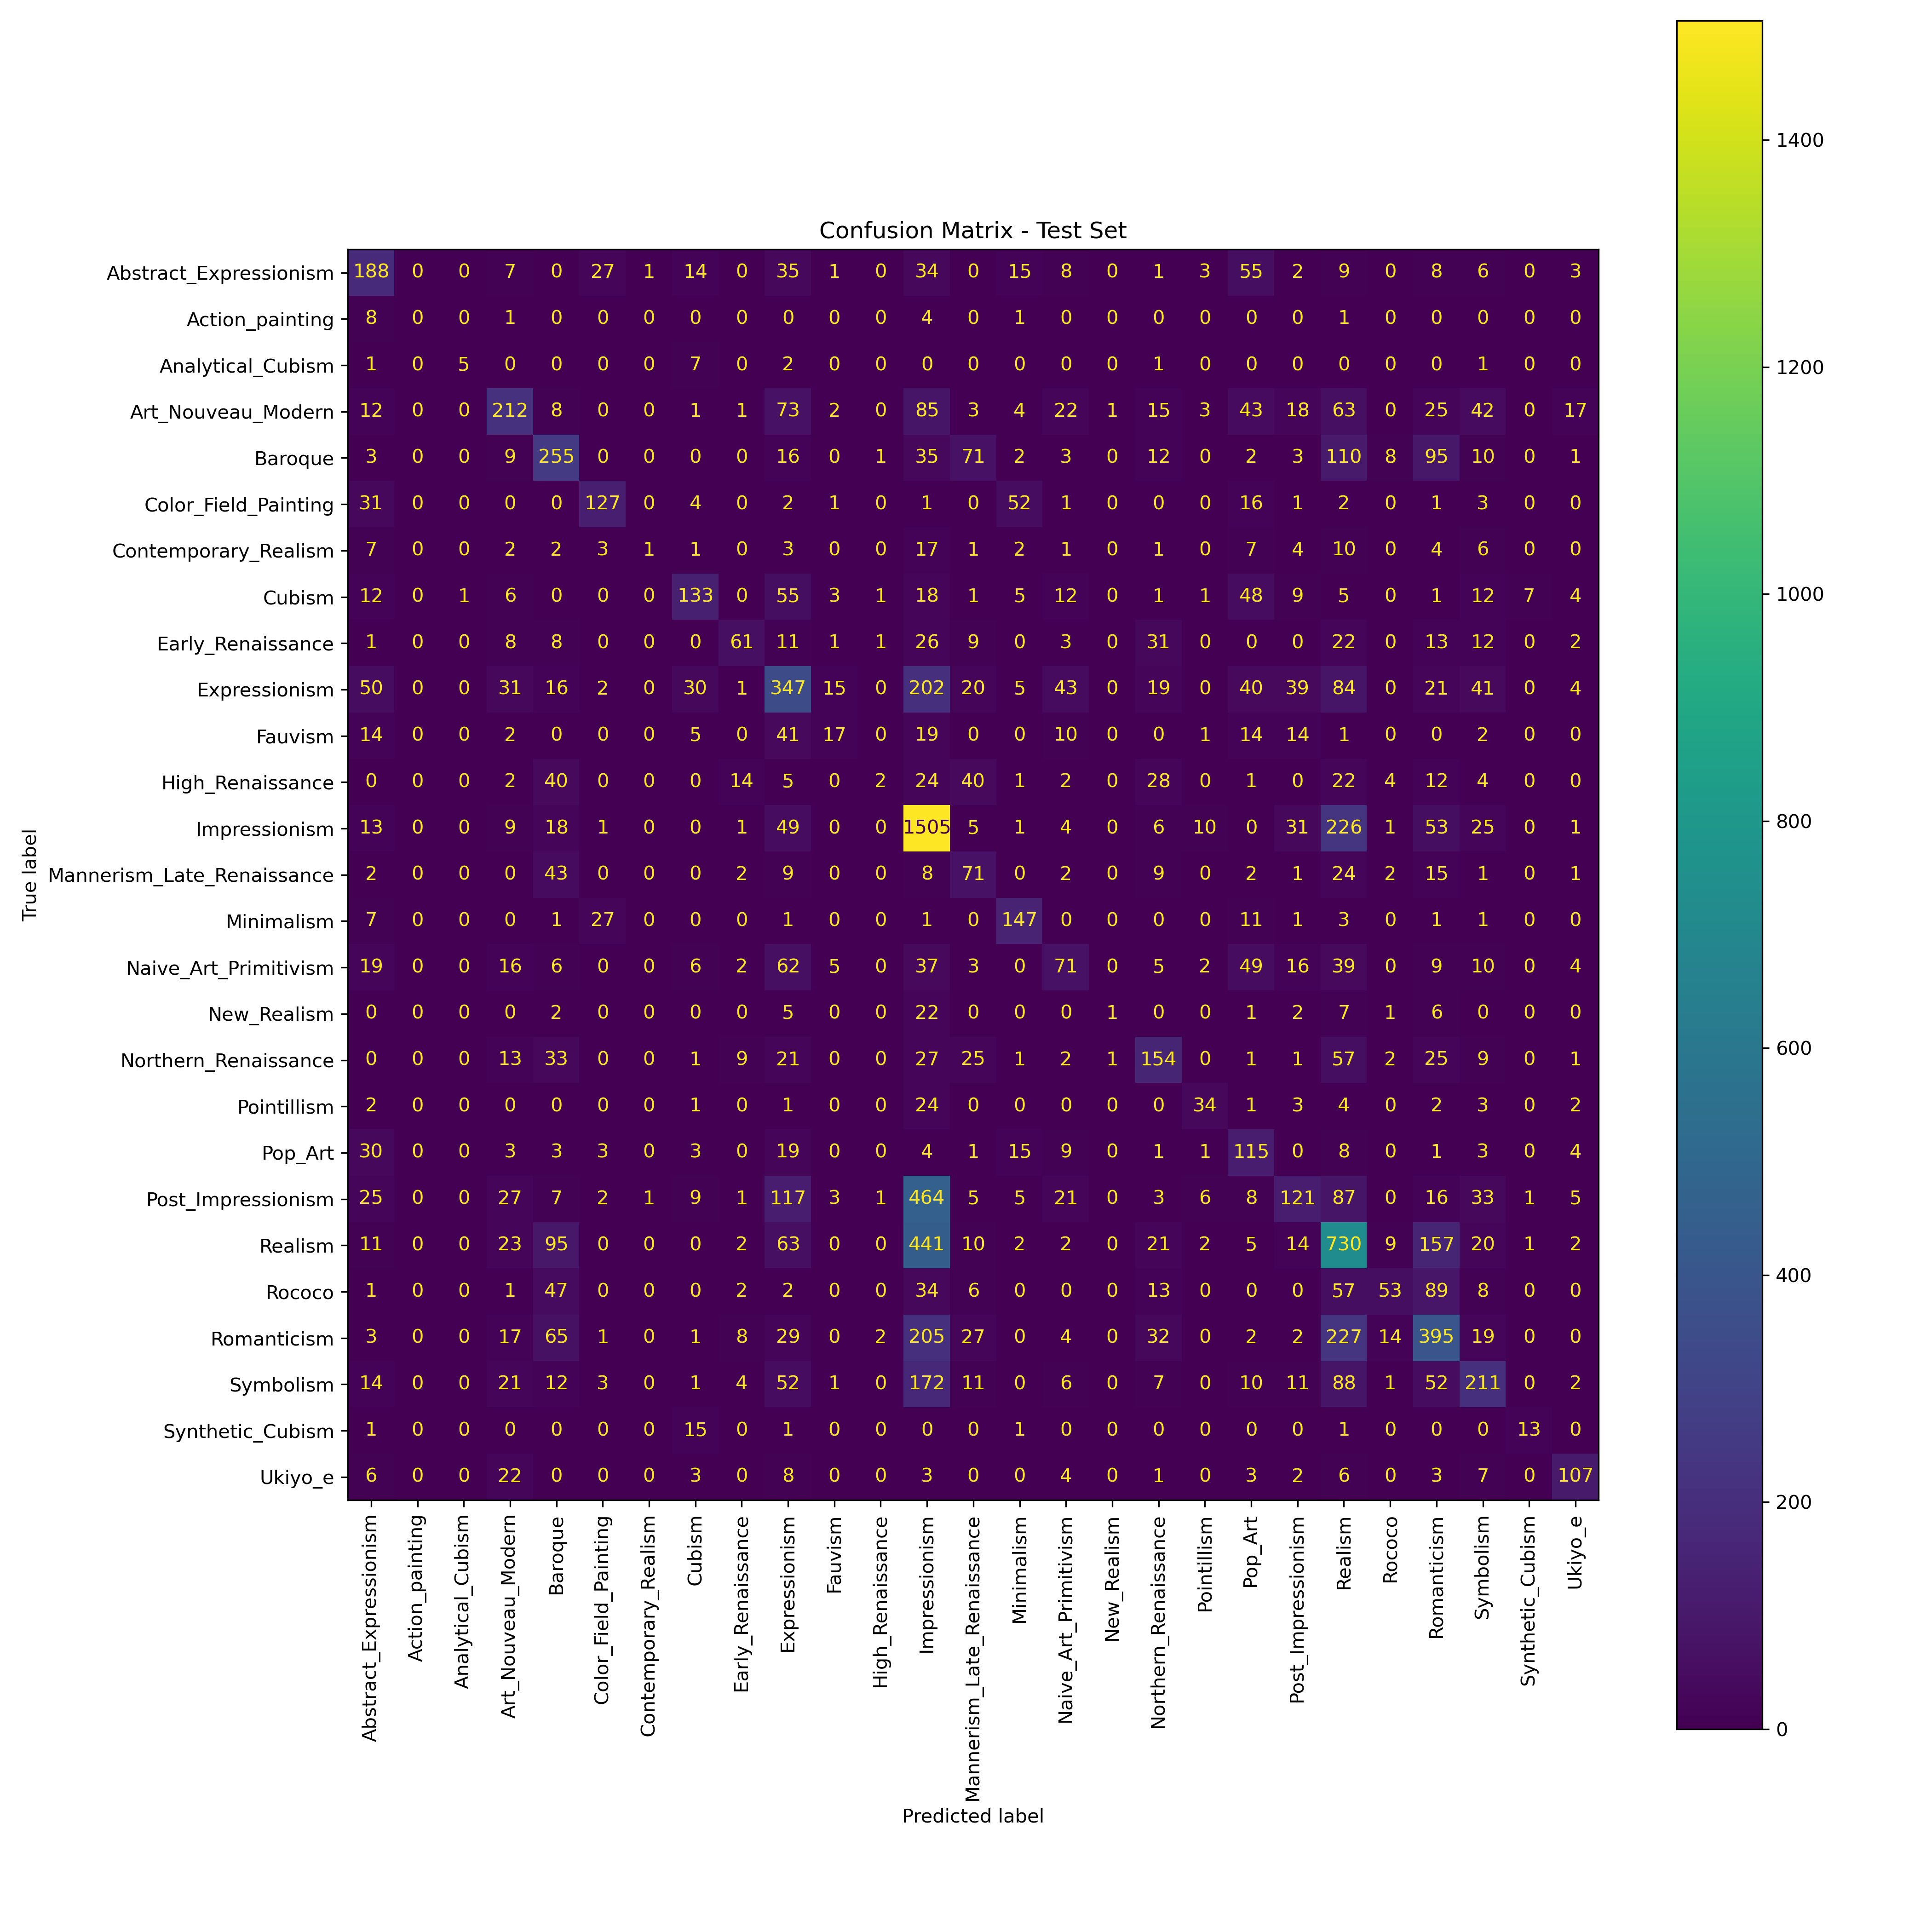
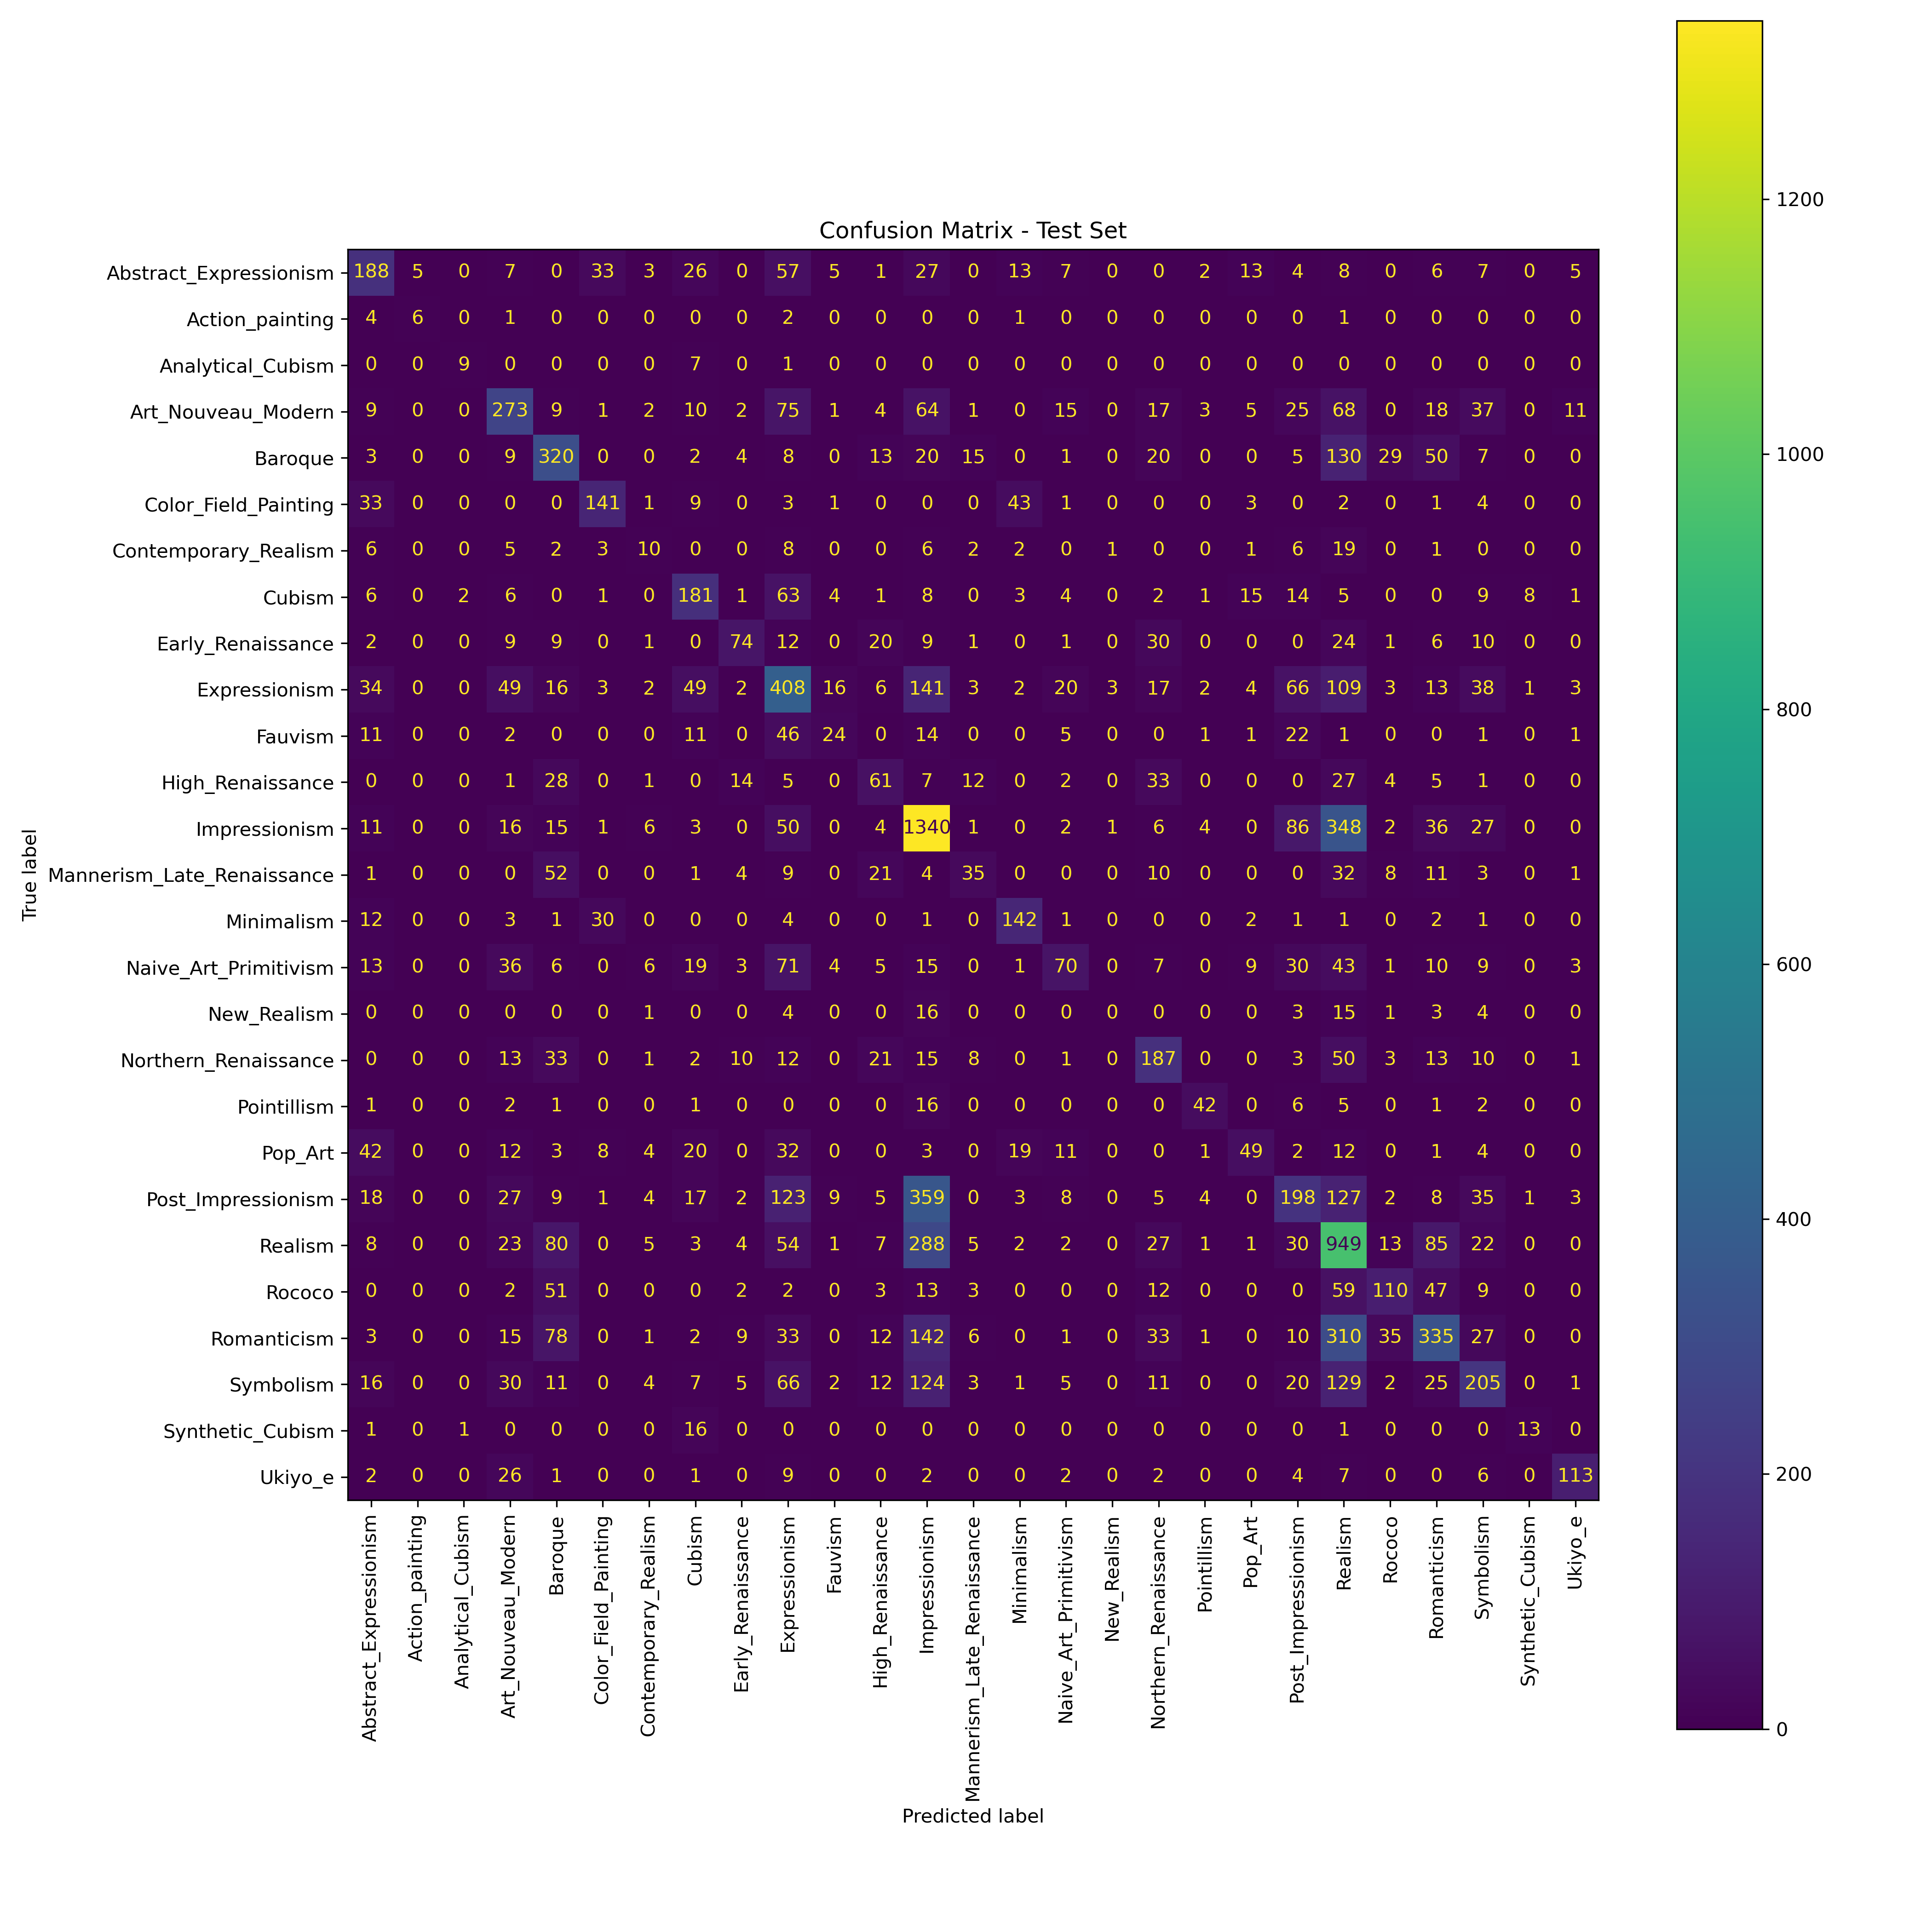
Experiment 2: 14 classes

Changed region(s): [[0.655, 0.5926, 0.7174, 0.655], [0.6862, 0.4055, 0.7174, 0.4679], [0.6862, 0.6862, 0.7174, 0.7174]]

diff --git a/utils/data_utils.py b/utils/data_utils.py
@@ -420,3 +420,72 @@ def create_dataloaders(
     )
 
     return train_loader, val_loader, test_loader
+
+
+#Experiment2
+
+def filter_top_k_classes(image_paths, labels, idx_to_class, top_k=14):
+    """
+    Conserva només les top_k classes amb més imatges.
+
+    Important:
+    Després de filtrar, reindexem les labels perquè siguin:
+        0, 1, 2, ..., num_classes-1
+
+    Això és necessari perquè CrossEntropyLoss espera labels consecutives.
+    """
+
+    counts = Counter(labels)
+
+    # Agafem les classes més grans segons nombre d'imatges
+    top_labels = [
+        label
+        for label, _ in counts.most_common(top_k)
+    ]
+
+    top_labels_set = set(top_labels)
+
+    removed_classes = [
+        idx_to_class[label]
+        for label in counts.keys()
+        if label not in top_labels_set
+    ]
+
+    print(f"\nConservant les {top_k} classes amb més imatges.")
+    print(f"Eliminant {len(removed_classes)} classes:")
+    for class_name in removed_classes:
+        print(f"  - {class_name}")
+
+    # Nou mapping classe -> índex
+    # Mantinc l'ordre de major a menor nombre d'imatges perquè sigui clar.
+    kept_class_names = [idx_to_class[label] for label in top_labels]
+
+    new_class_to_idx = {
+        class_name: new_idx
+        for new_idx, class_name in enumerate(kept_class_names)
+    }
+
+    new_idx_to_class = {
+        new_idx: class_name
+        for class_name, new_idx in new_class_to_idx.items()
+    }
+
+    filtered_paths = []
+    filtered_labels = []
+
+    for image_path, old_label in zip(image_paths, labels):
+        if old_label in top_labels_set:
+            old_class_name = idx_to_class[old_label]
+            new_label = new_class_to_idx[old_class_name]
+
+            filtered_paths.append(image_path)
+            filtered_labels.append(new_label)
+
+    print(
+        f"Després del filtre top-{top_k}: "
+        f"{len(filtered_paths)} imatges, {len(new_class_to_idx)} classes.\n"
+    )
+
+    return filtered_paths, filtered_labels, new_class_to_idx, new_idx_to_class
+
+

diff --git a/main.py b/main.py
@@ -14,6 +14,7 @@ from utils.data_utils import (
     split_dataset,
     print_split_summary,
     create_dataloaders,
+    filter_top_k_classes,
 )
 
 from models.transfer_model import create_resnet_model
@@ -47,7 +48,7 @@ def load_checkpoint(model, checkpoint_path, device):
 
 def main():
     config = {
-        "experiment_name": "exp1_resnet18_all_classes_no_aug_no_class_weights",
+        "experiment_name": "exp2_resnet18_top14_classes_no_aug_no_class_weights",
         "dataset_root": "/home/datasets/wikiart/",  # CANVIA AIXÒ SI CAL
         "model_name": "resnet18",
         "feature_extraction": True,
@@ -67,6 +68,8 @@ def main():
         "cache_num_workers": 12,
         "use_class_weights": False,
         "use_augmentation": False,
+        "use_top_k_classes": True,
+        "top_k_classes": 14,
     }
 
     set_seed(config["random_seed"])
@@ -113,6 +116,23 @@ def main():
         idx_to_class=idx_to_class,
         stats=stats,
     )
+    # 1.1. Experiment 2: conservar només les top-k classes més grans
+    if config["use_top_k_classes"]:
+        image_paths, labels, class_to_idx, idx_to_class = filter_top_k_classes(
+            image_paths=image_paths,
+            labels=labels,
+            idx_to_class=idx_to_class,
+            top_k=config["top_k_classes"],
+        )
+
+        print("\nResum després de filtrar top-k classes:")
+        print_dataset_summary(
+            image_paths=image_paths,
+            labels=labels,
+            class_to_idx=class_to_idx,
+            idx_to_class=idx_to_class,
+            stats=stats,
+        )
 
     num_classes = len(class_to_idx)
     print(f"Nombre de classes utilitzades: {num_classes}")
@@ -196,7 +216,7 @@ def main():
         criterion=criterion,
         device=device,
         idx_to_class=idx_to_class,
-        save_dir="results/figures",
+        save_dir=os.path.join("results", "figures", config["experiment_name"]),
     )
     wandb.finish()
 